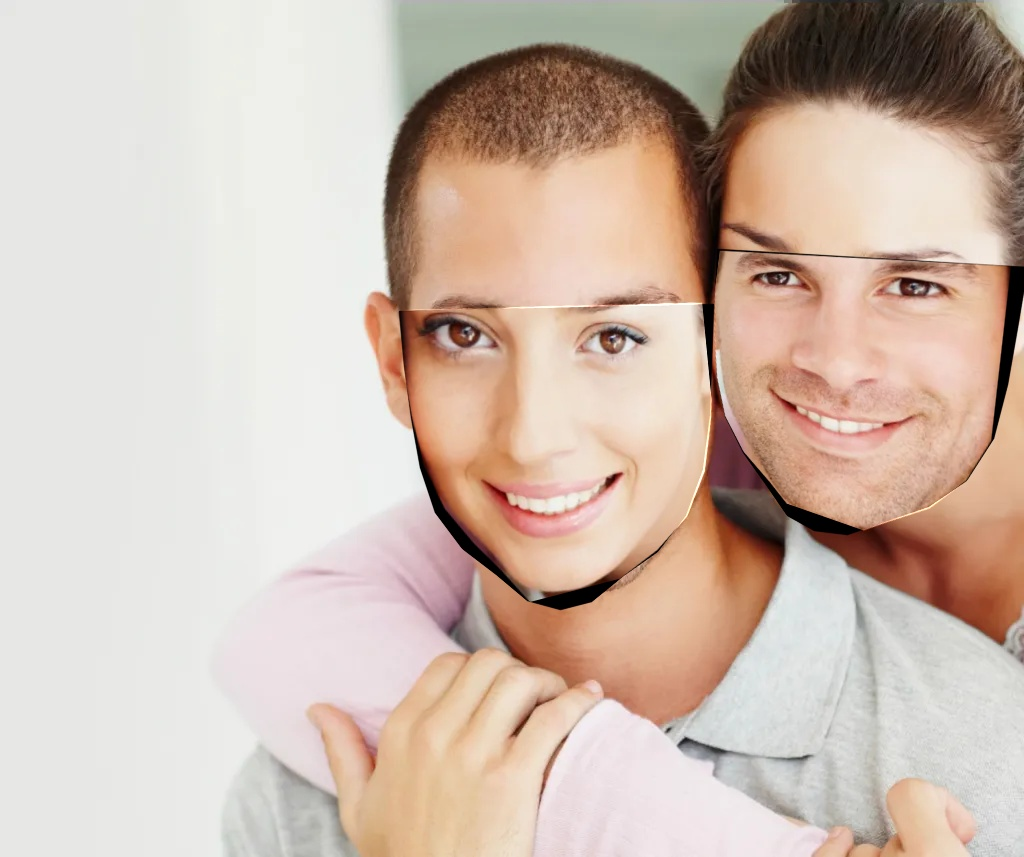
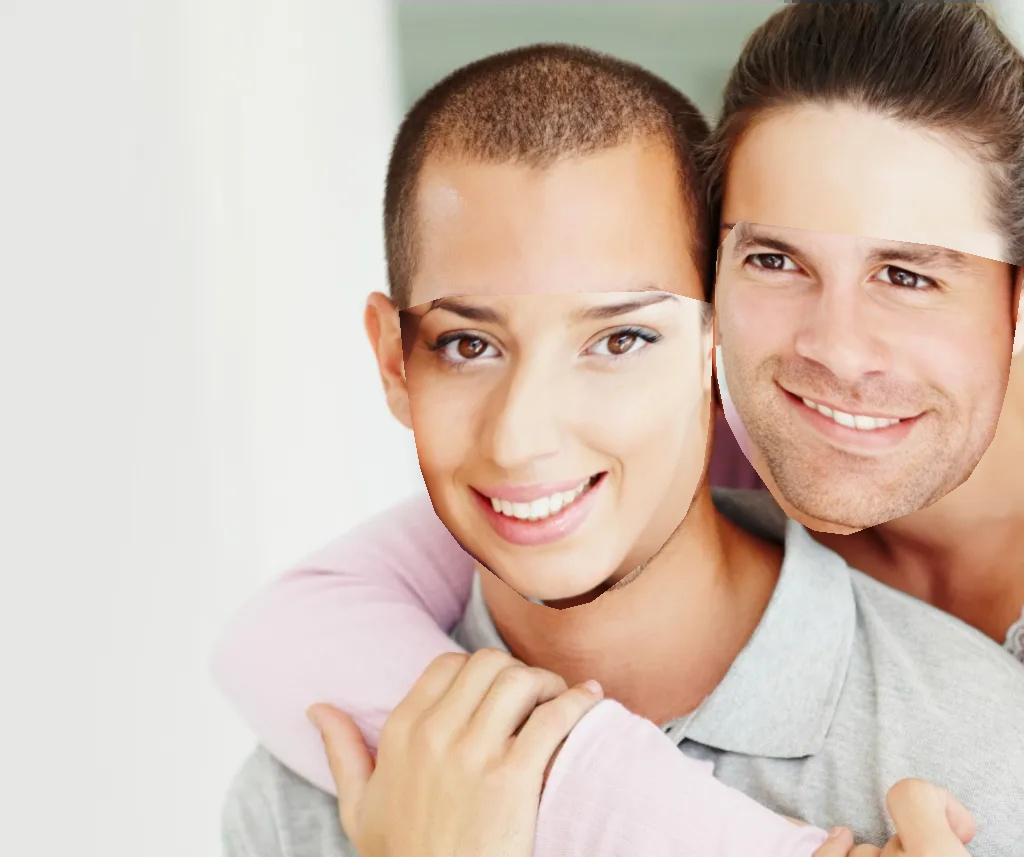
Improved face swapping

diff --git a/src/FaceSwapper.py b/src/FaceSwapper.py
@@ -37,61 +37,131 @@ class FaceSwapper:
             detections = self.__face_detector.forward()
             bbox = self.__getFaceBoundingBox(self.__image, detections)
 
-            if (len(bbox) > 1):
+            if (len(bbox) == 2):
                 image_dst = self.__image.copy()
                 retval, landmarks_list = self.__landmark_detector_obj.fit(image_dst, bbox)
 
-                face_1_dst_landmarks = landmarks_list[0][0][0:17] # Get only the external facial landmarks in the dst image
-                face_2_dst_landmarks = landmarks_list[1][0][0:17]
+                self.__warpSrcToDstFace(self.__image, image_dst, landmarks_list[0][0], landmarks_list[1][0])
+                self.__warpSrcToDstFace(self.__image, image_dst, landmarks_list[1][0], landmarks_list[0][0])
 
-                face_1_src_img, face_1_src_landmarks = self.__getFaceSrcImage(bbox[0])
-                face_2_src_img, face_2_src_landmarks = self.__getFaceSrcImage(bbox[1])
-
-                dst_image = self.__warpSrcImageToDst(face_2_src_landmarks, face_1_dst_landmarks, face_2_src_img, image_dst)
-                dst_image = self.__warpSrcImageToDst(face_1_src_landmarks, face_2_dst_landmarks, face_1_src_img, dst_image)
-
-                cv2.imshow('Final frame, press any key to save the results', dst_image)
+                cv2.imshow('Final frame, press any key to save the results', image_dst)
                 cv2.waitKey(0)
 
-                self.__saveResult(dst_image, self.__file)
+                self.__saveResult(image_dst, self.__file)
             else:
                 print('[ERROR] Not enough faces detected across the image. Only 2 are needed to proceed')
         else:
             print('[WARINING] No image loaded. Finishing the program.')
 
         cv2.destroyAllWindows()
-    
-    def __warpSrcImageToDst(self, face_src_landmarks, face_dst_landmarks, face_src, dst_image):
-        h, mask = cv2.findHomography(face_src_landmarks[0][0][0:17], face_dst_landmarks, cv2.RANSAC)
-        warped_image = cv2.warpPerspective(face_src, h, (self.__image.shape[1], self.__image.shape[0]))
 
-        mask = np.zeros([self.__image.shape[0], self.__image.shape[1]], dtype=np.uint8)
-        cv2.fillConvexPoly(mask, np.int32([face_dst_landmarks]), (255,255,255), cv2.LINE_AA)
+    def __warpSrcToDstFace(self, src_img, dst_img, src_face_landmarks, dst_face_landmarks):
+        face_1_dst_landmarks = []
+        face_2_dst_landmarks = []
 
-        face_dst_mask_3 = np.zeros_like(warped_image.astype(float))
+        hullIndex = cv2.convexHull(np.array(src_face_landmarks), returnPoints=False)
+
+        for i in range(0, len(hullIndex)):
+            face_1_dst_landmarks.append(src_face_landmarks[hullIndex[i][0]])
+            face_2_dst_landmarks.append(dst_face_landmarks[hullIndex[i][0]])
+
+        rect = (0, 0, dst_img.shape[1], dst_img.shape[0])
+
+        dt = self.__calculateDelaunayTriangles(rect, face_2_dst_landmarks)
+        if len(dt) == 0:
+            print("No Delanauy triangles calculated")
+
+        for i in range(0, len(dt)):
+            t1 = []
+            t2 = []
+
+            for j in range(0, 3):
+                t1.append(face_1_dst_landmarks[dt[i][j]])
+                t2.append(face_2_dst_landmarks[dt[i][j]])
+
+            self.__warpTriangle(src_img, dst_img, t1, t2)
+
+    def __rectContains(self, rect, point):
+        if point[0] < rect[0]:
+            return False
+        elif point[1] < rect[1]:
+            return False
+        elif point[0] > rect[2]:
+            return False
+        elif point[1] > rect[3]:
+            return False
+        return True
+
+    def __applyAffineTransform(self, src, srcTri, dstTri, size):
+        warpMat = cv2.getAffineTransform(np.float32(srcTri), np.float32(dstTri))
+        dst = cv2.warpAffine(src, warpMat, (size[0], size[1]), None,
+                    flags=cv2.INTER_LINEAR, borderMode=cv2.BORDER_REFLECT_101)
+
+        return dst
+        
+    def __warpTriangle(self, img1, img2, t1, t2):
+        r1 = cv2.boundingRect(np.float32([t1]))
+        r2 = cv2.boundingRect(np.float32([t2]))
+
+        t1Rect = []
+        t2Rect = []
+        t2RectInt = []
+
         for i in range(0, 3):
-            face_dst_mask_3[:,:,i] = mask / 255
+            t1Rect.append(((t1[i][0] - r1[0]), (t1[i][1] - r1[1])))
+            t2Rect.append(((t2[i][0] - r2[0]), (t2[i][1] - r2[1])))
+            t2RectInt.append(((t2[i][0] - r2[0]), (t2[i][1] - r2[1])))
 
-        frame_masked = cv2.multiply(dst_image.astype(float), 1 - face_dst_mask_3)
-        out = cv2.add(warped_image.astype(np.uint8), frame_masked.astype(np.uint8))
+        mask = np.zeros((r2[3], r2[2], 3), dtype=np.float32)
+        cv2.fillConvexPoly(mask, np.int32(t2RectInt), (1.0, 1.0, 1.0), 16, 0)
 
-        return out
+        img1Rect = img1[r1[1]:r1[1] + r1[3], r1[0]:r1[0] + r1[2]]
 
-    def __getFaceSrcImage(self, bbox):
-        face_src_img = self.__image[bbox[1]:bbox[1]+bbox[3], bbox[0]:bbox[0]+bbox[2], :]
+        size = (r2[2], r2[3])
 
-        retval, face_src_landmarks = self.__landmark_detector_obj.fit(face_src_img,
-                                    np.array([[0,0,face_src_img.shape[1],face_src_img.shape[0]]]).astype(np.int32))
-        
-        # Get a face mask only, and not the full bbox for the warped image
-        face_src_mask = np.zeros([face_src_img.shape[0], face_src_img.shape[1]], dtype=np.uint8)
-        cv2.fillConvexPoly(face_src_mask, np.int32([face_src_landmarks[0][0][0:17]]), (255,255,255), cv2.LINE_AA)
+        img2Rect = self.__applyAffineTransform(img1Rect, t1Rect, t2Rect, size)
 
-        face_src_mask_3 = np.zeros_like(face_src_img.astype(float))
-        for i in range(0,3):
-            face_src_mask_3[:,:,i] = face_src_mask / 255 # Same value in the three channels
-        
-        return cv2.multiply(face_src_img.astype(float), face_src_mask_3), face_src_landmarks
+        img2Rect = img2Rect * mask
+
+        img2[r2[1]:r2[1]+r2[3], r2[0]:r2[0]+r2[2]] = img2[r2[1]:r2[1]+r2[3], r2[0]:r2[0]+r2[2]] * ((1.0, 1.0, 1.0) - mask)
+        img2[r2[1]:r2[1]+r2[3], r2[0]:r2[0]+r2[2]] = img2[r2[1]:r2[1]+r2[3], r2[0]:r2[0]+r2[2]] + img2Rect
+
+    def __calculateDelaunayTriangles(self, rect, points):
+        subdiv = cv2.Subdiv2D(rect)
+
+        for p in points:
+            if p[0] > self.__image.shape[1]:
+                p[0] = self.__image.shape[1] - 1
+
+            if p[1] > self.__image.shape[0]:
+                p[1] = self.__image.shape[0] - 1
+
+            subdiv.insert((p[0], p[1]))
+
+        triangleList = subdiv.getTriangleList()
+
+        delaunayTri = []
+
+        for t in triangleList:
+            pt = []
+            pt.append((t[0], t[1]))
+            pt.append((t[2], t[3]))
+            pt.append((t[4], t[5]))
+
+            pt1 = (t[0], t[1])
+            pt2 = (t[2], t[3])
+            pt3 = (t[4], t[5])
+
+            if self.__rectContains(rect, pt1) and self.__rectContains(rect, pt2) and self.__rectContains(rect, pt3):
+                ind = []
+                for j in range(0, 3):
+                    for k in range(0, len(points)):
+                        if(abs(pt[j][0] - points[k][0]) < 1.0 and abs(pt[j][1] - points[k][1]) < 1.0):
+                            ind.append(k)
+                if len(ind) == 3:
+                    delaunayTri.append((ind[0], ind[1], ind[2]))
+
+        return delaunayTri
 
     def __getFaceBoundingBox(self, image, detections, detection_threshold=0.90):
         height, width = image.shape[:2]
@@ -108,7 +178,7 @@ class FaceSwapper:
                 face_height = y2 - y1
 
                 faces.append([x1, y1, face_width, face_height])
-        
+    
         return np.array(faces).astype(int)
 
     def __loadImage(self):
@@ -119,7 +189,7 @@ class FaceSwapper:
             print('[INFO] Loaded image')
         except:
             print('[ERROR] An error occured while reading the images')
-    
+
     def __saveResult(self, image, image_name):
         try:
             filename = self.__paths.folder_path + '/' + 'swapped-' + image_name
@@ -128,7 +198,7 @@ class FaceSwapper:
         except:
             print('[ERROR] An error occurred while saving the image')
 
-        
+
 
 if __name__ == "__main__":
     FaceSwapper_obj = FaceSwapper()

diff --git a/README.md b/README.md
@@ -22,7 +22,7 @@ It's converted into:
 
 ![alt text](https://github.com/Josgonmar/Face-swapper/blob/master/docs/swapped-test.jpeg?raw=true)
 
-As you can see, both faces are swapped within the same image. First it uses a deep learning model to detect both bounding boxes with high precision, to later use [OpenCV's](https://docs.opencv.org/4.6.0/d2/d42/tutorial_face_landmark_detection_in_an_image.html) face landmark detector model. With these landmarks, several homography and image warping operations are performed, as well as some morphological operations, in order to get the final results.
+As you can see, both faces are swapped within the same image. First it uses a deep learning model to detect both bounding boxes with high precision, to later use [OpenCV's](https://docs.opencv.org/4.6.0/d2/d42/tutorial_face_landmark_detection_in_an_image.html) face landmark detector model. With these landmarks, several affine warping operations are performed using delauny triangles, as well as some morphological operations, in order to get the final results.
 
 Of course, the results may differ depending on the source image and the clarity of the faces on it.
 ## License:
